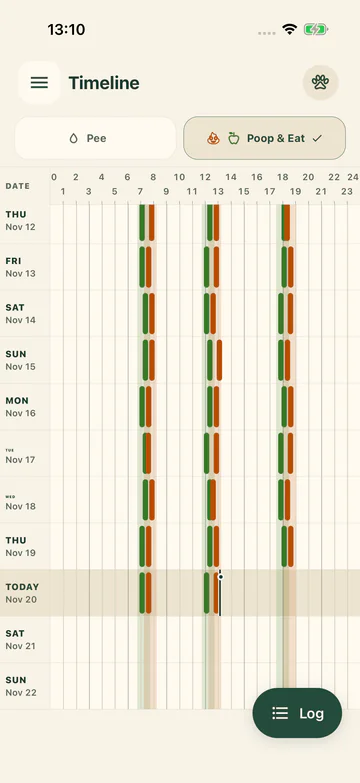
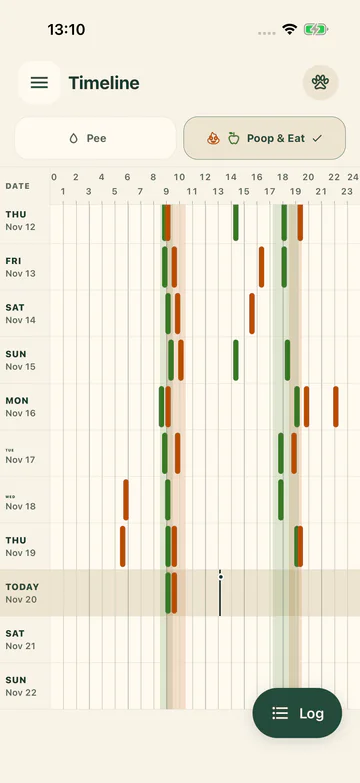
Show realistic made-up puppy logs in the homepage rhythm stories
Add a seeded 'realistic' rhythm to the website capture seeder with drifting
breakfasts and dinners, occasional extra or unlogged meals, and one to three
irregular poops a day. Recapture the Timeline and Routine stories from it.

diff --git a/App.web.tsx b/App.web.tsx
@@ -119,7 +119,7 @@ export default function MarketingSite({ path = '/' }: { path?: string }) {
           <article className="rhythm-story">
             <h3 data-reveal>Spot the potty patterns</h3>
             <div className="story-content">
-              <PhoneFrame reveal><img {...timingImage} sizes={screenSizes} alt="Puptime Poop & Eat timeline showing meals and poops at similar times across recorded days" width="1206" height="2622" loading="lazy" /></PhoneFrame>
+              <PhoneFrame reveal><img {...timingImage} sizes={screenSizes} alt="Puptime Poop & Eat timeline of recorded days where poops often follow breakfast and dinner" width="1206" height="2622" loading="lazy" /></PhoneFrame>
               <p data-reveal>Compare meals and poops across recorded days. Look for recurring potty times.</p>
             </div>
           </article>

diff --git a/assets/screenshots/README.md b/assets/screenshots/README.md
@@ -52,15 +52,21 @@ default Poop & Eat view) and `schedule-poop-eat` (the Routine screen). They were
 captured on November 27, 2026 with the same capture-only clock, status bar, and
 unedited 1206 × 2622 light-theme framing, from the app source of this branch on
 a dedicated iPhone 17 Pro simulator (iOS 26.5) named
-`Puptime Website Screenshots web-recapture`, which was deleted afterwards.
+`Puptime Website Screenshots web-realistic-capture`, which was deleted afterwards.
 
-Their journal is the seeder's `poop-eat` rhythm: 88 wholly artificial logs for
-Biscuit with three meals and three poops a day, no pee breaks, over 14 completed
-days and four activities today. The routine is the app's six suggestions from
-that history. Nothing is filled in after Today.
+Their journal is the seeder's `realistic` rhythm: 61 wholly artificial meal and
+poop logs for Biscuit, with no pee breaks or notes, over 14 completed days and
+two activities today. A fixed-seed generator models an untidy real week rather
+than a timetable. Breakfast is around 08:25–09:35 and dinner around 17:45–19:10,
+about 35 and 15 minutes later at weekends. Some days add a midday meal or leave
+a meal unlogged. Poops usually follow a meal by 15–70 minutes but sometimes come
+mid-afternoon, before dawn, or late at night, one to three a day. The routine is
+the app's four suggestions from that history: Eat 9:00, Poop 9:45, Eat 18:15,
+and Poop 19:00. Nothing is filled in after Today. The earlier `poop-eat` rhythm
+(three meals and three poops a day) remains available in the seeder.
 
 ```sh
-TZ=Asia/Shanghai node scripts/seed-website-screenshots.mjs SIMULATOR_UDID poop-eat
+TZ=Asia/Shanghai node scripts/seed-website-screenshots.mjs SIMULATOR_UDID realistic
 maestro --device SIMULATOR_UDID test scripts/capture-website-screenshots.yaml
 ```
 
@@ -72,7 +78,7 @@ unchanged since), artifact SHA-256
 JavaScript from the generated capture entry, with an unreachable loopback cloud
 origin and analytics unconfigured, was embedded into an ad-hoc re-signed copy;
 Info.plist was unchanged. The installed JavaScript SHA-256 is
[2 lines of base64/hex data omitted]
 
 ## Illustrative timeline concept
 
